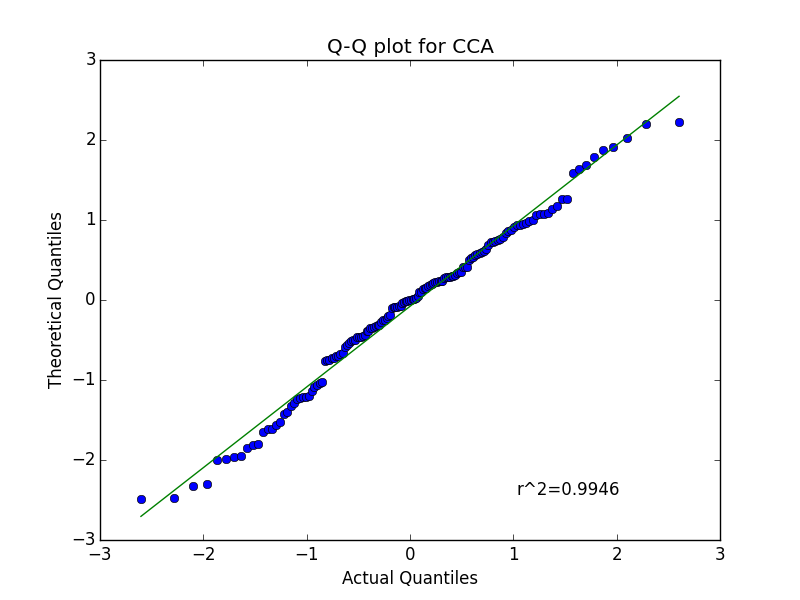
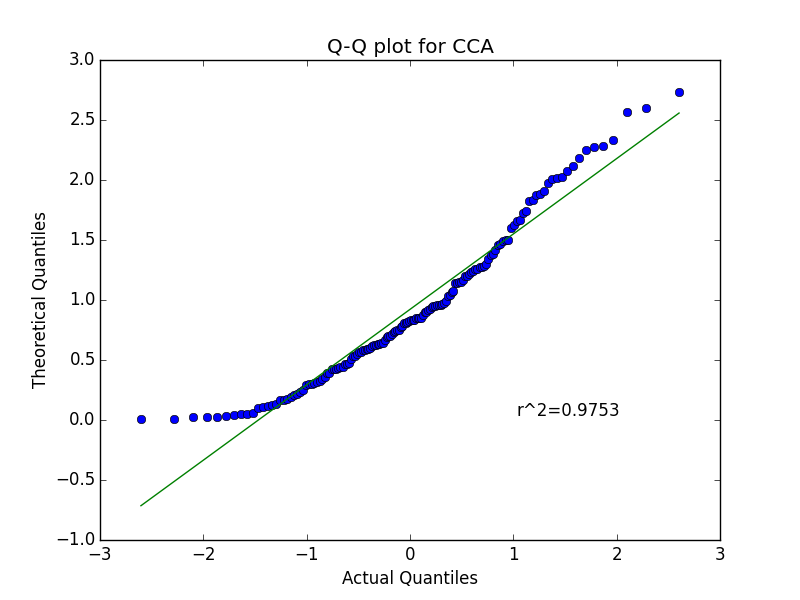
Updates

diff --git a/hw3_code_dzbarsky.py b/hw3_code_dzbarsky.py
@@ -621,7 +621,7 @@ def plot_qq_pca(file):
 def plot_qq_cca():
     tvalues = []
     for line in range(150):
-        tvalues.append(random.normalvariate(0, 1))
+        tvalues.append(math.fabs(random.normalvariate(0, 1)))
     stats.probplot(tvalues, dist="norm", plot=Plot)
     Plot.title('Q-Q plot for CCA')
     Plot.xlabel('Actual Quantiles')
@@ -664,9 +664,9 @@ def main():
     '''
 
     #plot_qq('ols_results.txt')
-    plot_t_values('ols_results.txt')
+    #plot_t_values('ols_results.txt')
     #plot_qq_pca('pca_explained_variance')
-    #plot_qq_cca()
+    plot_qq_cca()
     #plot_t_values_pca('pca_explained_variance')
     #plot_t_values_cca()
 
